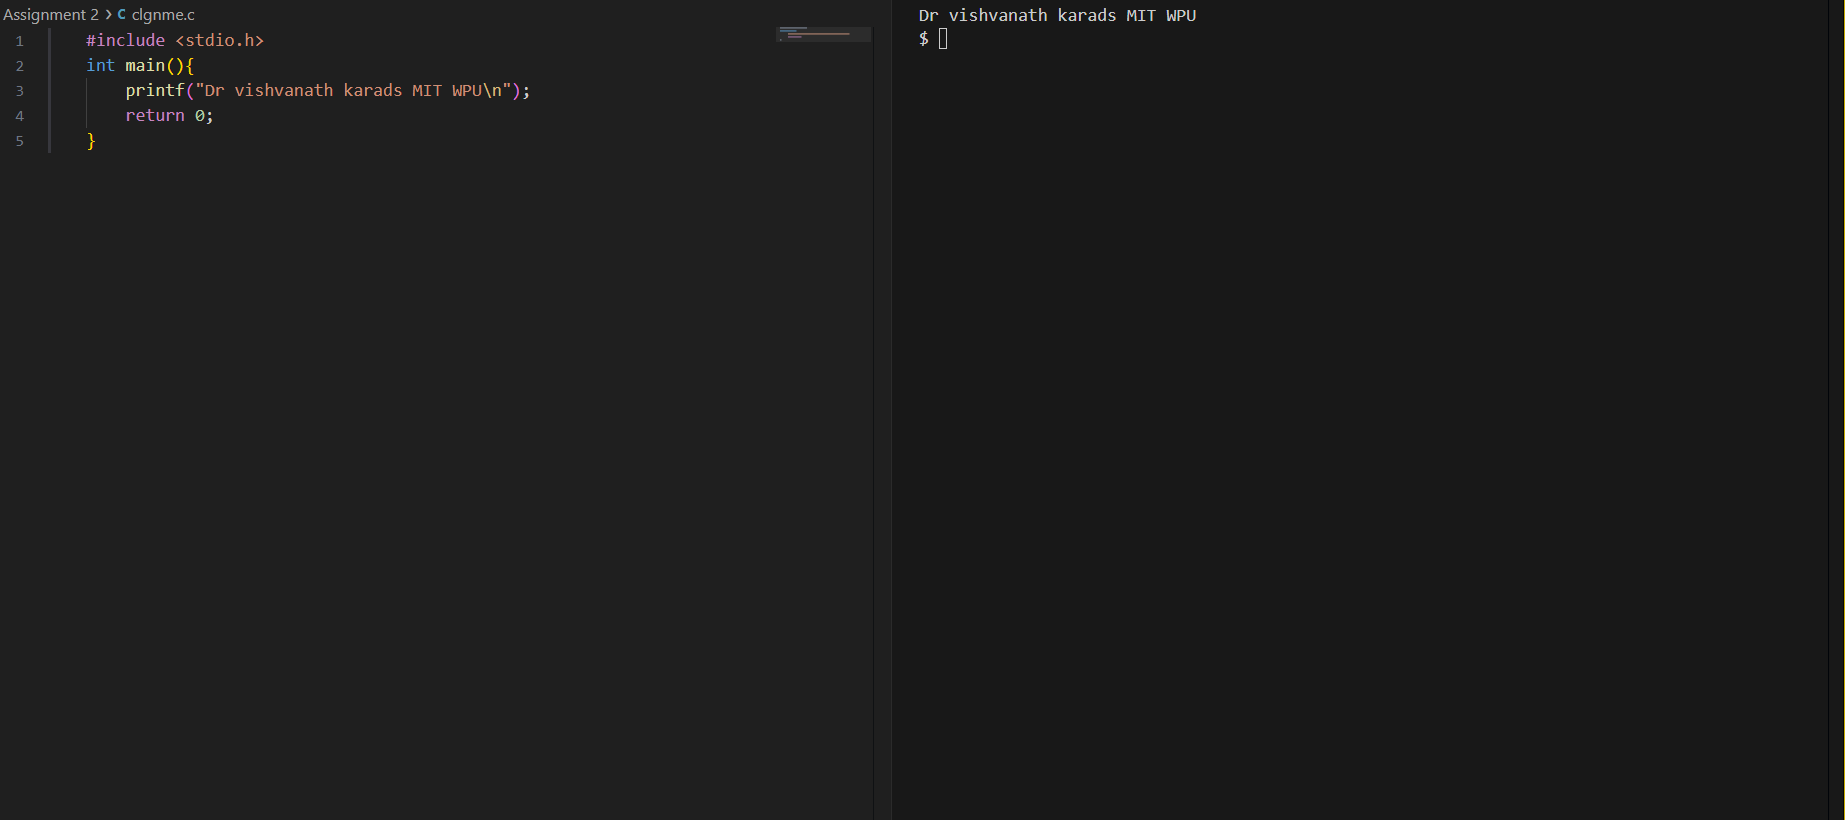
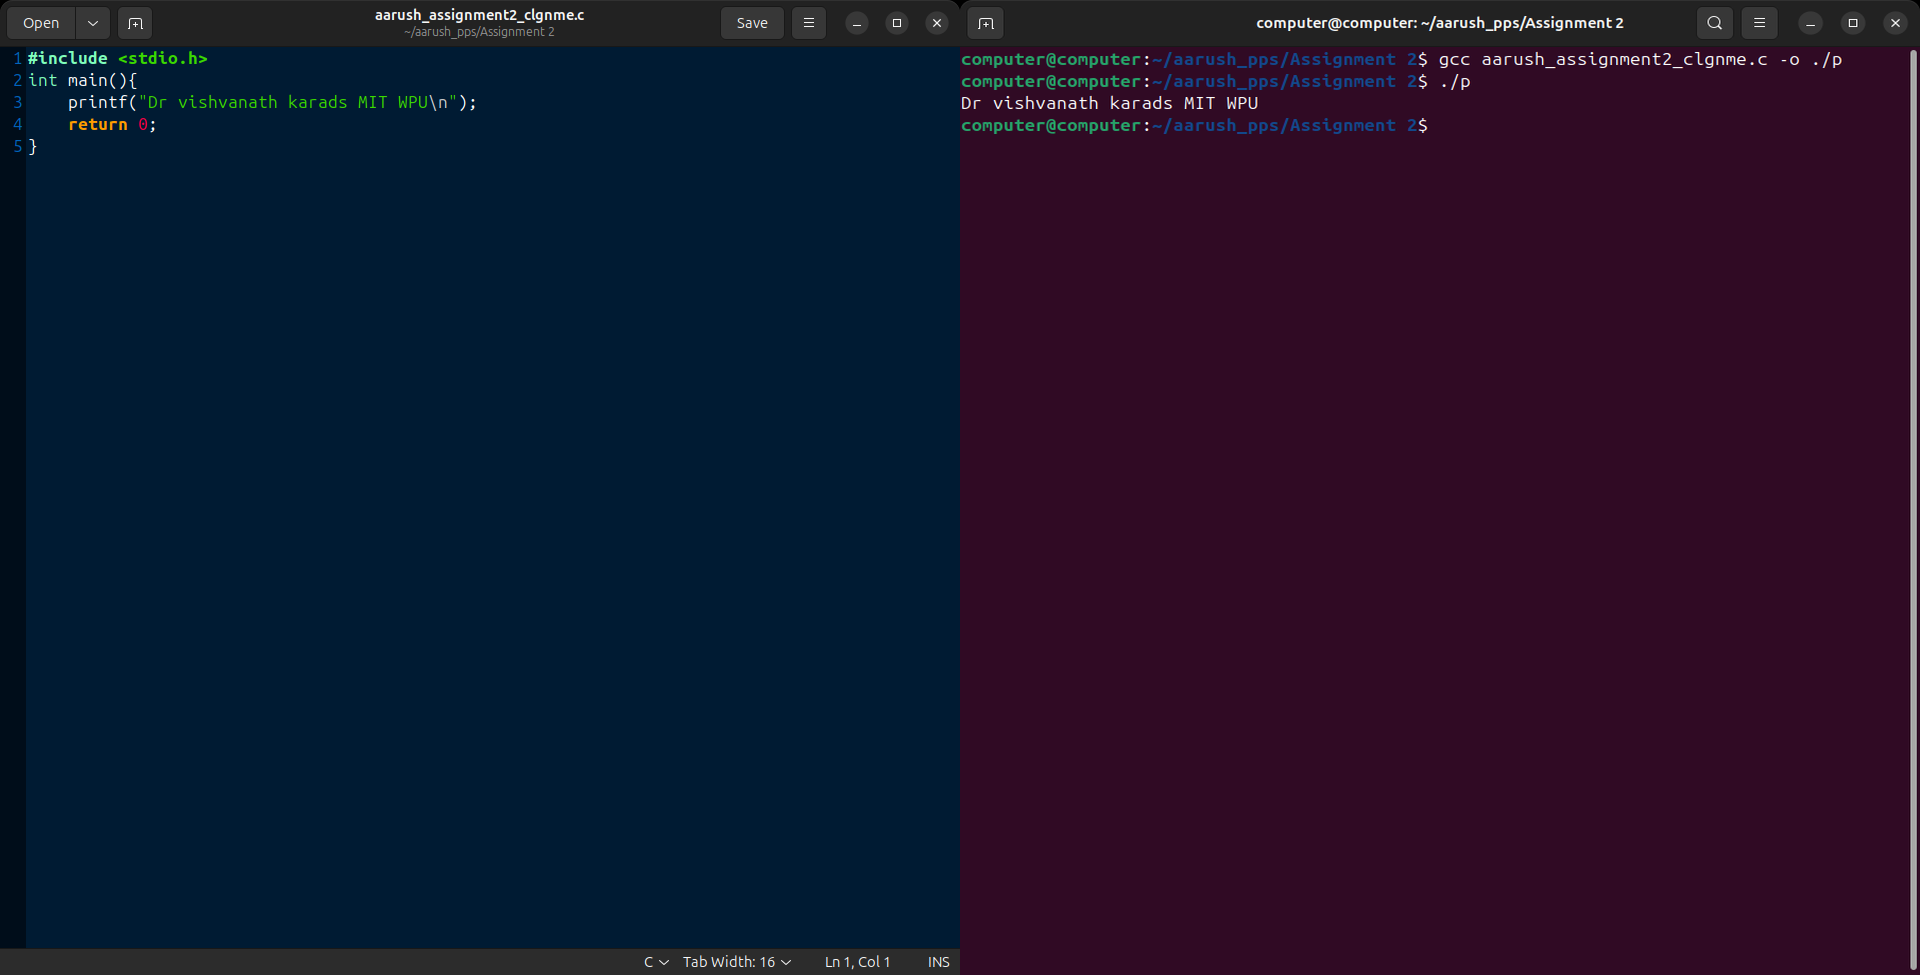
Replace screenshots with Ubuntu editor and terminal screenshots

diff --git a/Assignment 9/README.md b/Assignment 9/README.md
@@ -6,6 +6,4 @@
 
 ![Robot navigation code, sample input, and output](screenshots/A9navigation.png)
 
-![Robot navigation code part 2](screenshots/A9navigation-part2.png)
-
-![Remaining robot navigation code and output](screenshots/A9navigation-part3.png)
+![Remaining robot navigation code and output](screenshots/A9navigation-part2.png)

diff --git a/Assignment 7/README.md b/Assignment 7/README.md
@@ -6,6 +6,4 @@
 
 ![Robot code, sample input, and output](screenshots/A7robot.png)
 
-![Robot code part 2 and output](screenshots/A7robot-part2.png)
-
-![Remaining robot code and output](screenshots/A7robot-part3.png)
+![Remaining robot code and output](screenshots/A7robot-part2.png)

diff --git a/Assignment 5/README.md b/Assignment 5/README.md
@@ -5,5 +5,3 @@
 [Source code](stroperations.c)
 
 ![String operations code, sample input, and output](screenshots/stroperations.png)
-
-![Remaining string operations code and output](screenshots/stroperations-part2.png)

diff --git a/Assignment 8/README.md b/Assignment 8/README.md
@@ -5,5 +5,3 @@
 [Source code](A8motorswap.c)
 
 ![Motor speed swapping code, sample input, and output](screenshots/A8motorswap.png)
-
-![Remaining motor speed swapping code and output](screenshots/A8motorswap-part2.png)
